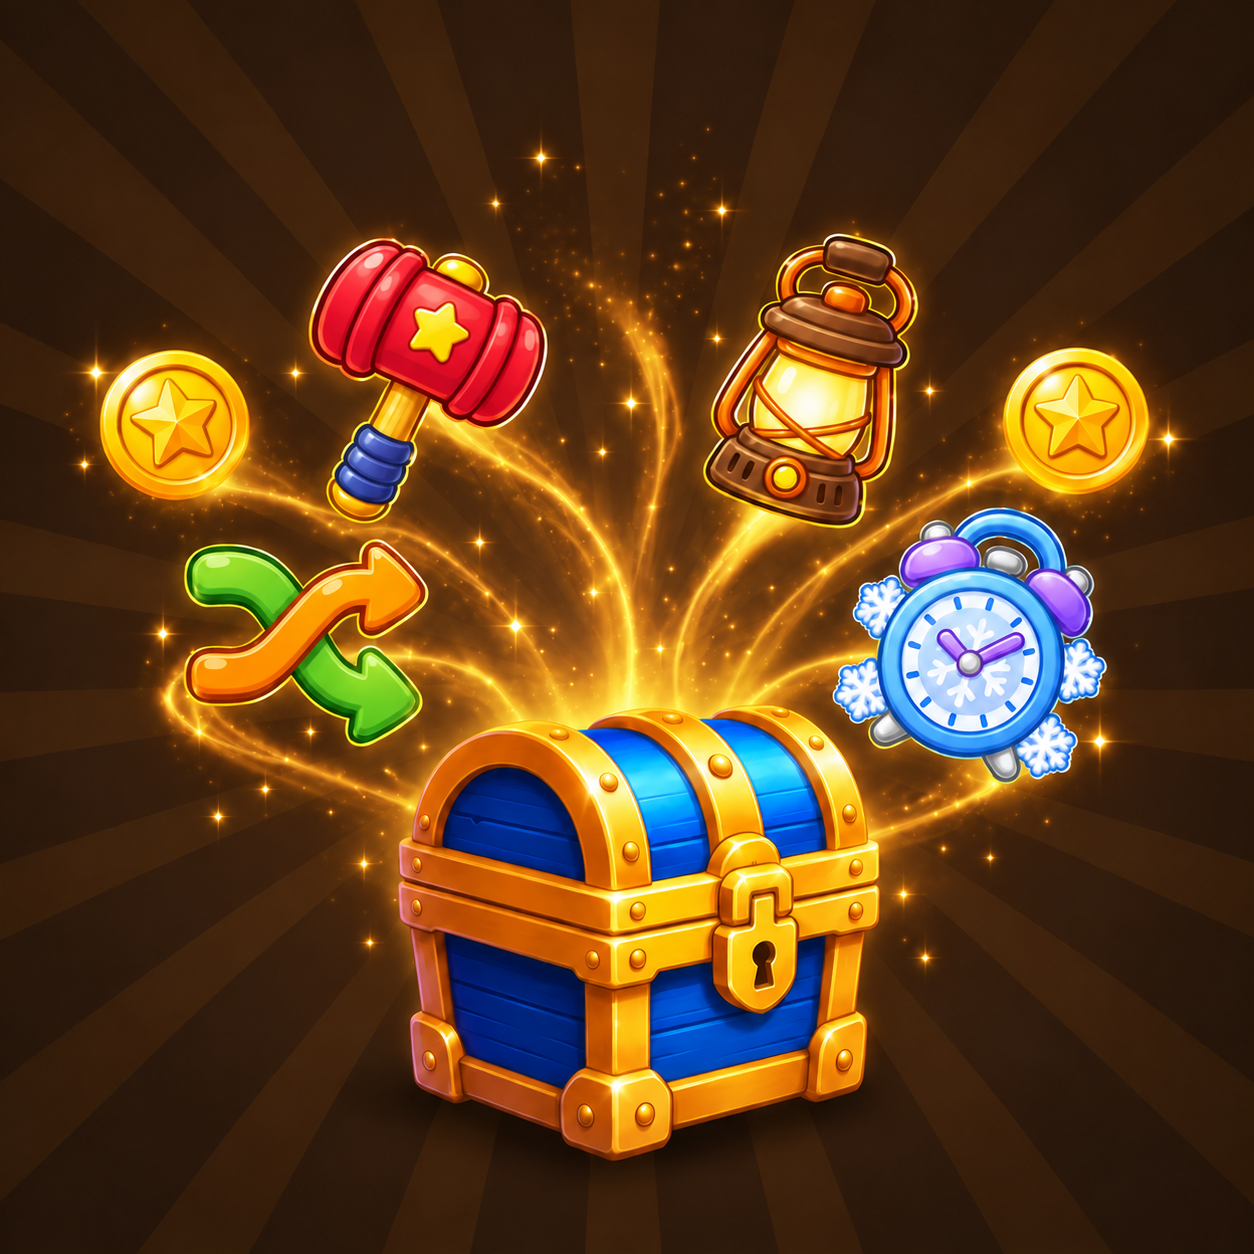
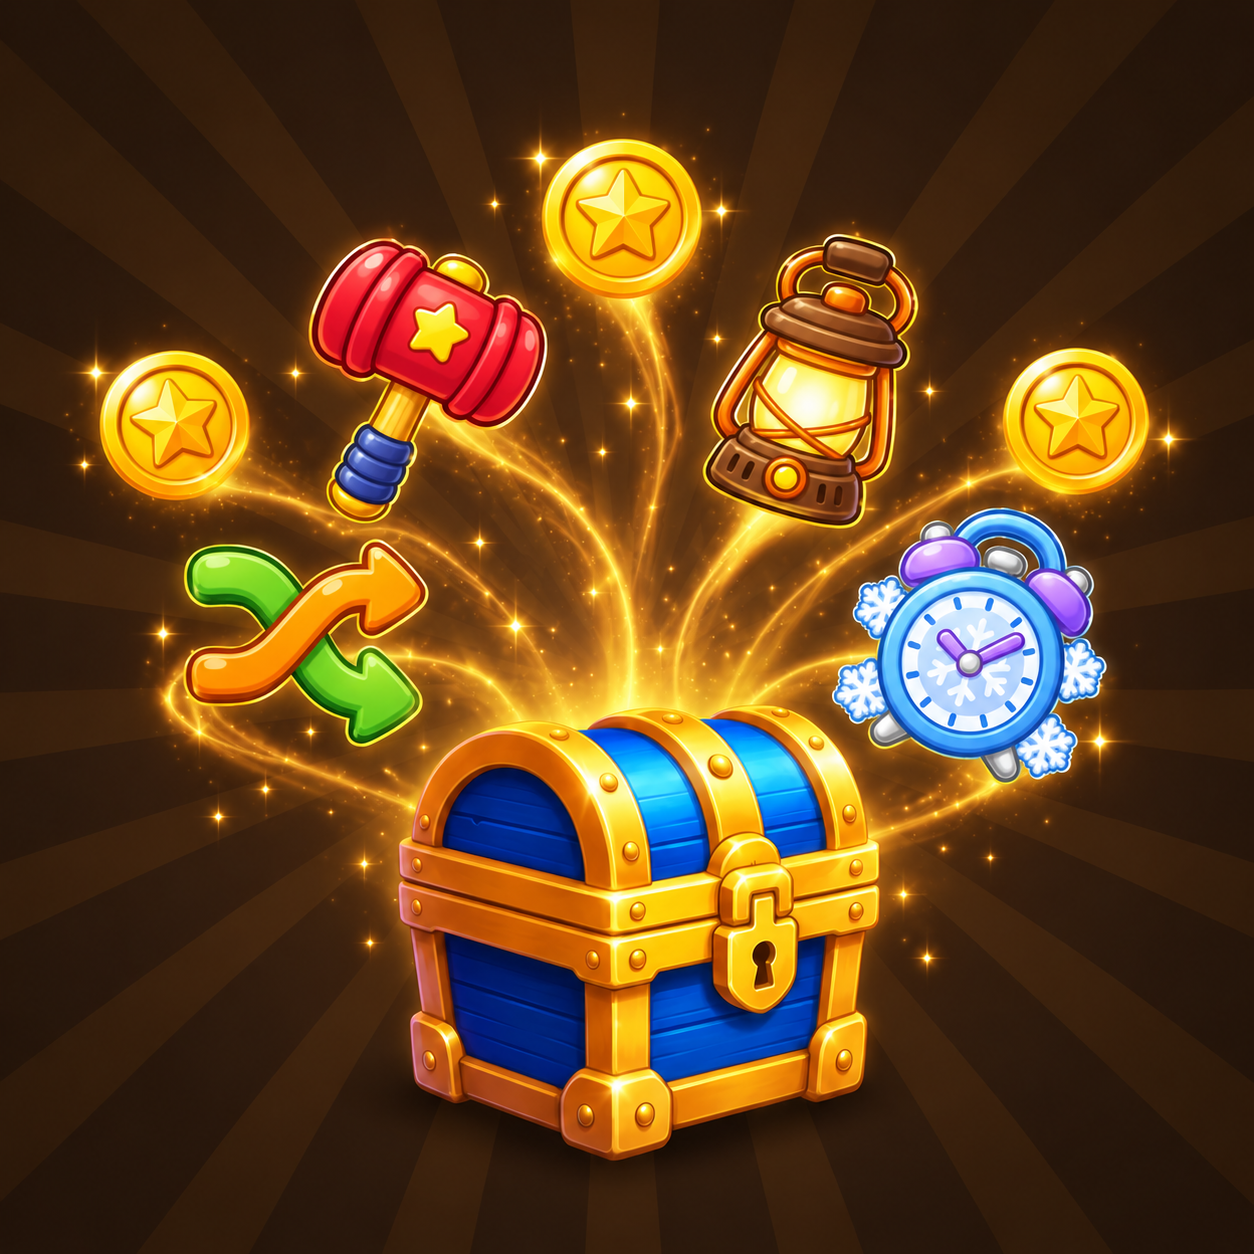
Enlarge reward chest modal to show all three coins

diff --git a/docs/SCENES.md b/docs/SCENES.md
@@ -1111,12 +1111,12 @@ Purpose:
 - Reads live progress from `PlayerProgress.get_reward_chest_progress()` itself in `_ready()`, the
   same way `scenes/ui/profile_menu.tscn` reads its own data; the opening menu does not push data in.
 - Shows the `Chest rewards` title, a star-to-chest `current/goal` progress row, explanatory copy
-  between the progress row and bordered hero illustration, the coin payout waiting at the active
-  goal, and a large `Continue` button.
+  between the progress row and bordered hero illustration, and a large `Continue` button.
 - Purely informational: coins are still granted automatically on goal rollover in
   `scripts/player_progress.gd`, so `Continue` only closes the modal and does not claim anything.
-- The 600x916 logical-pixel outer panel occupies most of the 720-wide design viewport while still
-  fitting the shorter tablet-like logical viewport produced by the project's `keep_width` stretch.
+- The 600x1000 logical-pixel outer panel occupies most of the 720-wide design viewport. Its owner
+  scales it down when the viewport is shorter or narrower so the awning and close button stay visible
+  on tablet-like screens.
   It grew 16px at the top for the awning header, and `InnerPanel` starts at y=110 so the hanging
   title plate keeps a gap above it. It narrowed from 640 to 600px, matching Edit Profile, because
   the close button on the awning's rail end reaches 44px past the panel's right edge and would
@@ -1125,23 +1125,22 @@ Purpose:
   `AwningHeader`, `title_text` set in the scene), and the red close button sits on the right end of
   the awning's rail (top-right anchor, offset `-28, -76`), after the header so it draws above it.
 - The `ChestStage` uses `assets/ui/reward_chest_current_abilities.png`, showing the current hammer,
-  shuffle, Lantern, and Freezer icons with coins around the blue-and-gold chest. The small
-  main-menu reward chest remains a separate icon and also marks the goal end of the progress row.
+  shuffle, Lantern, and Freezer icons with three coins around the blue-and-gold chest. The taller
+  panel reserves a 100-pixel heading band above the illustration so the top coin remains visible.
+  The small main-menu reward chest remains a separate icon and also marks the goal end of the
+  progress row.
 
 Important nodes:
 - `RewardChestPanel`: centered outer popup panel, styled like `scenes/ui/profile_menu.tscn`'s panel.
-- `CloseButton`: protruding red circular close button; the script wires it to `queue_free()`.
+- `CloseButton`: protruding red circular close button; the script wires it to `close()`.
 - `InnerPanel/ContentStack/ProgressRow`: star icon, progress column, and reward-chest goal icon.
 - `ProgressRow/ProgressColumn/ProgressTrack/ProgressBar` and `.../AmountLabel`: bound to the active
-  goal; `ProgressColumn/GoalCaptionLabel` shows `"<n> stars to go"`.
+  goal.
 - `InnerPanel/ContentStack/HeroBodyLabel`: centered unlock guidance between the progress row and
   hero image.
-- `InnerPanel/ContentStack/ChestStage`: bordered, aspect-covered hero image with a translucent
-  headline overlay and bottom reward badge. The image uses
-  `assets/ui/rounded_texture_clip.gdshader` with a 16-pixel image radius inside the frame's
-  8-pixel inset, keeping it concentric with the frame's 24-pixel radius.
-- `ChestStage/RewardBadge/NextRewardRow/NextRewardLabel`: `"Reward: +<n> coins"` from the active
-  goal's `coin_reward`.
+- `InnerPanel/ContentStack/ChestStage`: bordered, aspect-covered hero image below its headline
+  band. The illustration starts 100 pixels below the frame's top edge, with an 8-pixel side and
+  bottom inset. `assets/ui/rounded_texture_clip.gdshader` rounds its corners by 16 pixels.
 - `ContinueButton`: large green action in the outer panel's reserved footer area; closes the modal
   like `CloseButton`.
 

diff --git a/docs/SCRIPTS.md b/docs/SCRIPTS.md
@@ -844,14 +844,16 @@ Purpose:
 
 Key methods:
 - `close()`: fades this modal out via `scripts/ui_motion.gd`, then frees it.
+- `_fit_panel_to_viewport()`: scales the centered panel when the viewport cannot fit its taller
+  three-coin illustration, awning, and close button at design size.
 - `_apply_reward_progress(progress)`: writes the clamped `current/goal` values into the progress bar
-  and label, the remaining-stars caption, and the hero image's reward badge.
+  and label.
 - `_sync_illustration_corner_mask()`: updates the image shader with the illustration's actual
   runtime size and 16-pixel corner radius whenever container layout resizes it.
 
 Depends on:
 - `scenes/ui/reward_chest_menu.tscn` node names `%CloseButton`, `%ContinueButton`, `%ProgressBar`,
-  `%Illustration`, `%AmountLabel`, `%GoalCaptionLabel`, and `%NextRewardLabel`.
+  `%Illustration` and `%AmountLabel`, plus `RewardChestPanel`.
 - `PlayerProgress.get_reward_chest_progress()`.
 - `scripts/ui_motion.gd`.
 
